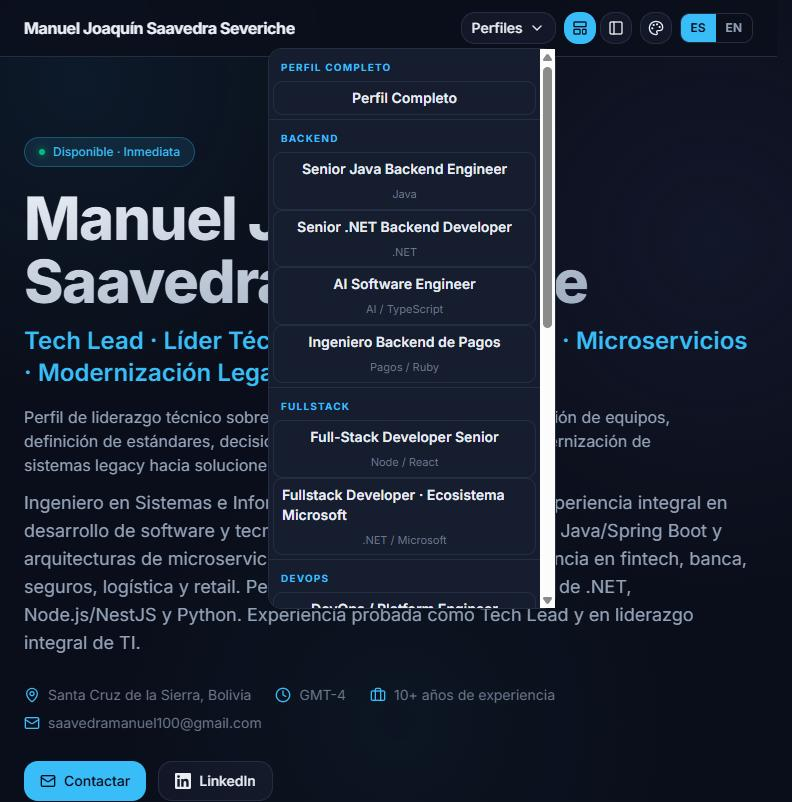
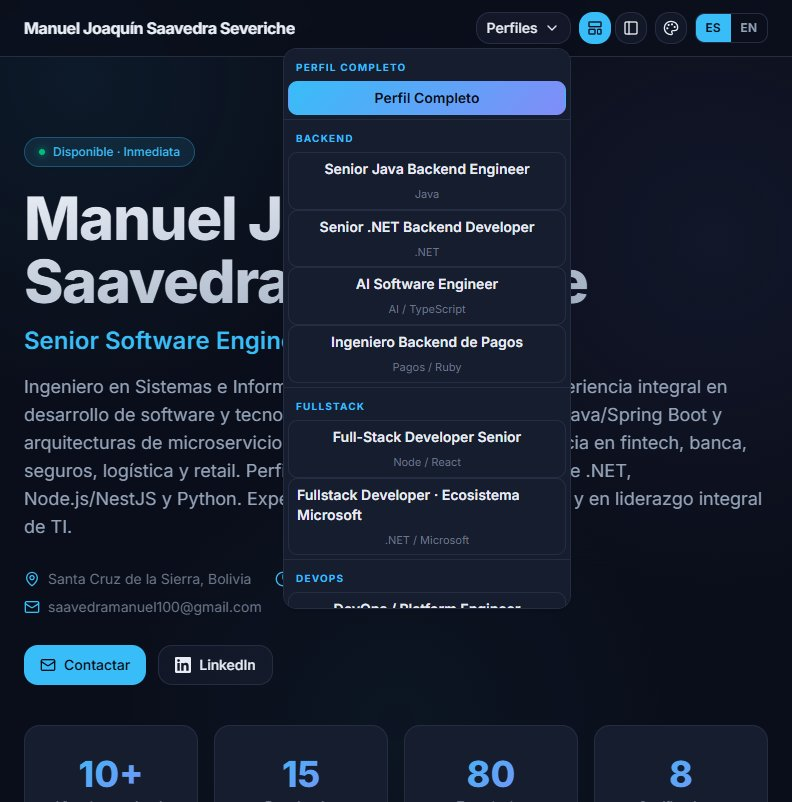
docs(manual): renueva las capturas de TC-05 y TC-18
TC-05 muestra el menú abierto en la home (en /:slug ya no hay menú) y TC-18
el dashboard con sesión iniciada: visitas de hoy incluidas (D-01), siete
secciones en la navegación y la tabla por origen. Se quitan las notas de
capturas vencidas en el manual y en la guía interactiva.

diff --git a/docs/manual/index.html b/docs/manual/index.html
@@ -458,8 +458,8 @@ curl -s $API/api/auth/me -H "$AUTH" | jq</pre></div>
           <label class="run"><input type="checkbox" data-run="tc05"> ejecutado</label></div>
         <p><span class="lbl">Pasos</span> · En la home (<code>/</code>), abrir el desplegable <b>Perfiles</b>. Después abrir un perfil por su link, por ejemplo <code>/tech-lead-dotnet</code>.</p>
         <p><span class="lbl">Esperado</span> · En la home, el menú lista los perfiles públicos, enumerados y no archivados, agrupados por <code>roleType</code>, cada uno con su <code>techFocus</code> debajo. En <code>/:slug</code> no hay menú.</p>
-        <div class="note"><b>Desde el change <code>add-curated-profile-lifecycle</code></b> el menú solo se monta en la home: quien recibe un link no ve los otros perfiles. La captura de abajo es anterior y muestra el menú sobre <code>/tech-lead-dotnet</code>, que ya no ocurre; se renueva en la próxima ejecución.</div>
-        <figure class="shot" id="img-tc05-menu-perfiles"><img src="tc05-menu-perfiles.jpg" width="792" height="802" alt="Menú de perfiles abierto sobre un perfil curado"><figcaption>El desplegable abierto sobre <code>/tech-lead-dotnet</code>.</figcaption></figure>
+        <div class="note"><b>Desde el change <code>add-curated-profile-lifecycle</code></b> el menú solo se monta en la home: quien recibe un link no ve los otros perfiles.</div>
+        <figure class="shot" id="img-tc05-menu-perfiles"><img src="tc05-menu-perfiles.jpg" width="792" height="802" alt="Menú de perfiles abierto en la home"><figcaption>El desplegable en la home, agrupado por tipo de rol. En la misma ejecución, <code>/tech-lead-dotnet</code> no tenía el botón Perfiles.</figcaption></figure>
       </article>
 
       <article class="case" data-status="ok" id="tc06">
@@ -652,7 +652,7 @@ tras un preview del panel              -> 4   ✅ el preview no cuenta como visi
 GET analytics/views?from=hoy&amp;to=hoy    -> total=0   ❌ antes del arreglo de D-01
 GET analytics/views?from=hoy&amp;to=hoy    -> total=4   ✅ después</pre></div>
         <div class="note"><b>Fallaba el rango, no el registro.</b> El contador del perfil y el registro de <code>ProfileView</code> siempre funcionaron. <code>to</code> era exclusivo y el dashboard pide <code>[hoy-29, hoy]</code>, así que las visitas de hoy no aparecían. Corregido: ver <a href="#defectos">D-01</a>.</div>
-        <figure class="shot" id="img-tc18-dashboard"><img src="tc18-dashboard.jpg" width="800" height="455" alt="Dashboard de analítica, antes del arreglo"><figcaption>516 visitas en el rango, 6 perfiles y 2 idiomas. Captura anterior al arreglo de D-01: los datos más recientes son de septiembre porque las visitas de hoy todavía no entraban. Se renueva en la próxima ejecución.</figcaption></figure>
+        <figure class="shot" id="img-tc18-dashboard"><img src="tc18-dashboard.jpg" width="1280" height="1098" alt="Dashboard de analítica"><figcaption>381 visitas en el rango, 7 perfiles y 2 idiomas, con las de hoy incluidas (D-01 corregido). Las cuatro tablas: por día, por perfil, por idioma y por origen.</figcaption></figure>
         <p>De cada visita se guarda el perfil, el idioma, la fecha y la IP <b>solo como HMAC</b> con <code>ANALYTICS_SALT</code>. No hay cookies de seguimiento, y si el registro falla la respuesta al visitante no se altera.</p>
       </article>
 

diff --git a/docs/MANUAL.md b/docs/MANUAL.md
@@ -150,14 +150,16 @@ curl -s $API/api/auth/me -H "$AUTH" | jq
 
 ![Tema corporate con layout sidebar](manual/tc04-tema-layout.jpg)
 
-### TC-05 — El menú ofrece los demás perfiles, solo en la home 🔍
+### TC-05 — El menú ofrece los demás perfiles, solo en la home ✅
 
 **Pasos:** en la home (`/`), abrir el desplegable **Perfiles**. Después abrir un perfil por su link, por ejemplo `/tech-lead-dotnet`.
 **Resultado esperado:** en la home, el menú lista los perfiles públicos, enumerados y no archivados, agrupados por `roleType` (Perfil Completo, Backend, Fullstack, DevOps…), cada uno con su `techFocus` debajo. En `/:slug` **no hay menú**: quien recibe un link no ve los otros perfiles hechos para otras vacantes.
 
 ![Menú de perfiles](manual/tc05-menu-perfiles.jpg)
 
-> **Desde el change `add-curated-profile-lifecycle`** el menú solo se monta en la home. La captura de arriba es anterior: muestra el menú abierto sobre `/tech-lead-dotnet`, que ya no ocurre, y se renueva en la próxima ejecución. Las capturas nuevas de los dos casos están en `openspec/changes/archive/*-add-curated-profile-lifecycle/verification/` (`05-perfil-sin-menu.png` y `06-home-con-menu.png`).
+*El desplegable abierto en la home, agrupado por tipo de rol. Capturada el 8 de octubre de 2026; en la misma ejecución, `/tech-lead-dotnet` no tenía el botón **Perfiles**.*
+
+> Desde el change `add-curated-profile-lifecycle` el menú solo se monta en la home. La captura del perfil sin menú está en `openspec/changes/archive/*-add-curated-profile-lifecycle/verification/05-perfil-sin-menu.png`.
 
 ### TC-06 — Un perfil protegido pide token ✅
 
@@ -480,7 +482,7 @@ El contador del perfil y el registro de `ProfileView` siempre funcionaron. Lo qu
 
 ![Dashboard de analítica](manual/tc18-dashboard.jpg)
 
-*516 visitas en el rango, repartidas en 6 perfiles y 2 idiomas. Las tres tablas: por día, por perfil y por idioma.*
+*Capturada el 8 de octubre de 2026 con sesión iniciada: 381 visitas en el rango, en 7 perfiles y 2 idiomas, con las de hoy incluidas (D-01 corregido). Las cuatro tablas: por día, por perfil, por idioma y por origen.*
 
 De cada visita se guarda el perfil, el idioma, la fecha y la IP **solo como HMAC** con `ANALYTICS_SALT`. No hay cookies de seguimiento. Las visitas se registran únicamente en la ruta pública, nunca en el preview, y si el registro falla la respuesta al visitante no se altera.
 
@@ -736,7 +738,7 @@ cd docs/manual && pwsh ./suite-backoffice.ps1
 | TC-02 | Idioma negociado y forzado | ✅ | captura |
 | TC-03 | Un perfil curado filtra el contenido | ✅ | captura + métricas 15→7 |
 | TC-04 | Tema y layout desde la URL | ✅ | captura |
-| TC-05 | Menú de perfiles, solo en la home | 🔍 | captura anterior al cambio · comportamiento nuevo verificado en tests y en la app real |
+| TC-05 | Menú de perfiles, solo en la home | ✅ | captura renovada · en `/:slug` no hay menú |
 | TC-06 | Perfil protegido pide token | ✅ | captura |
 | TC-07 | Token correcto resuelve el perfil | ✅ | captura |
 | TC-08 | Slug inexistente o privado da 404 | ✅ | captura |
@@ -749,7 +751,7 @@ cd docs/manual && pwsh ./suite-backoffice.ps1
 | TC-15 | Personalizar el tema | ✅ | captura · solo se guarda la diferencia |
 | TC-16 | Publicar, proteger, esconder | ✅ | captura · la tabla completa de visibilidad |
 | TC-17 | Previsualizar sin guardar | 🔍 | no persiste nada |
-| TC-18 | Dashboard de analítica | ✅ | captura previa al arreglo · el contador sube y el rango incluye hoy (D-01 corregido, verificado en e2e) |
+| TC-18 | Dashboard de analítica | ✅ | captura renovada con las visitas de hoy y la tabla por origen (D-01 corregido) |
 | TC-19 | Mantener experiencias | ✅ | 2 capturas · visible / oculta (D-02 corregido) |
 | TC-20 | Mantener skills | ✅ | captura · la categoría entra por el tag de su skill |
 | TC-21 | Duplicar un perfil | 🔍 | e2e · app real con capturas en el archivo del change |
@@ -760,7 +762,7 @@ cd docs/manual && pwsh ./suite-backoffice.ps1
 | TC-26 | Formación: ocultar sin borrar | ✅ | captura · e2e · visible:false sale del sitio y queda en el panel |
 | TC-27 | Proyectos y enlaces sociales | ✅ | captura · e2e · el proyecto entra por tags con su url · stats inválido 400 |
 
-**Los 27 casos pasan.** Los 20 originales tienen evidencia: 20 capturas en `docs/manual/` más las transcripciones de la API. La captura de TC-18 es anterior al arreglo de D-01 y la de TC-05 al cambio del menú: las dos se renuevan en la próxima ejecución con sesión iniciada. TC-21 a TC-24 (change `add-curated-profile-lifecycle`) están cubiertos por e2e; TC-21 y TC-22 además se ejecutaron en la app real, con capturas en el archivo del change. TC-25 a TC-27 (change `add-profile-content-admin`) suman la transcripción del e2e y su captura de la app real: 23 capturas en total.
+**Los 27 casos pasan.** Los 20 originales tienen evidencia: 20 capturas en `docs/manual/` más las transcripciones de la API. Las capturas de TC-05 y TC-18 se renovaron el 8 de octubre de 2026 con sesión iniciada. TC-21 a TC-24 (change `add-curated-profile-lifecycle`) están cubiertos por e2e; TC-21 y TC-22 además se ejecutaron en la app real, con capturas en el archivo del change. TC-25 a TC-27 (change `add-profile-content-admin`) suman la transcripción del e2e y su captura de la app real: 23 capturas en total.
 
 ### 6.1 Defectos encontrados al ejecutar la suite
 
